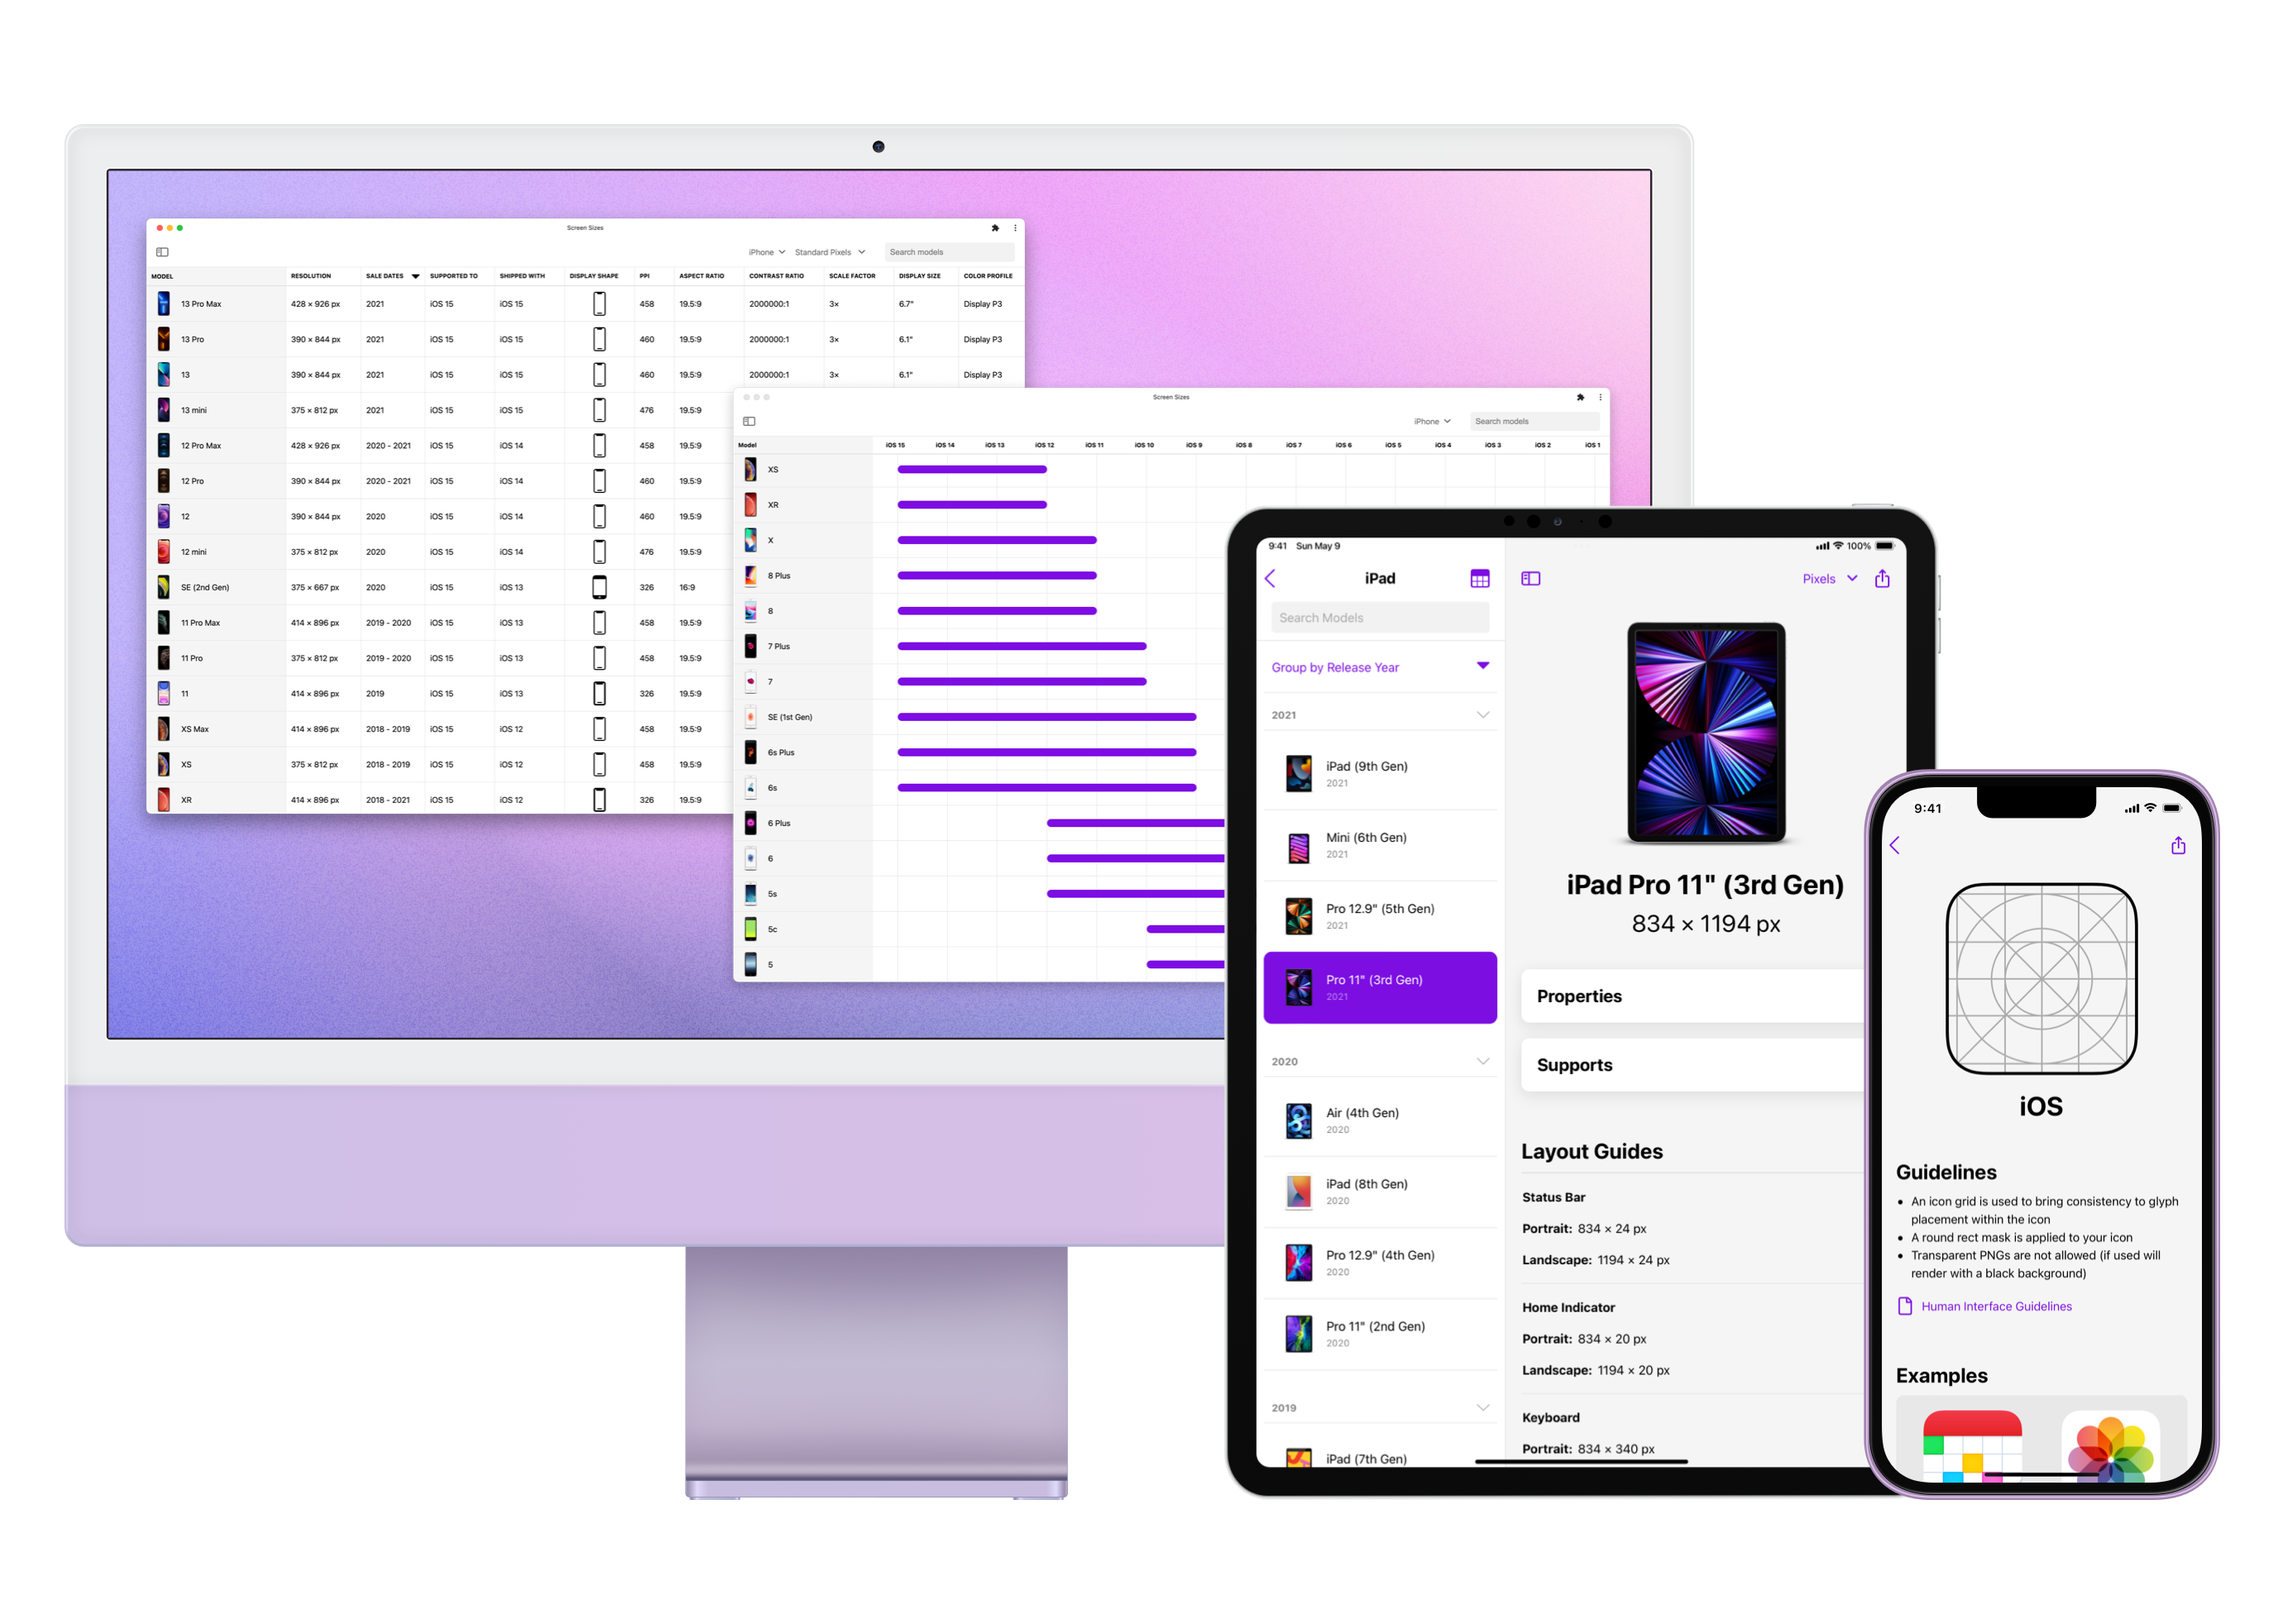
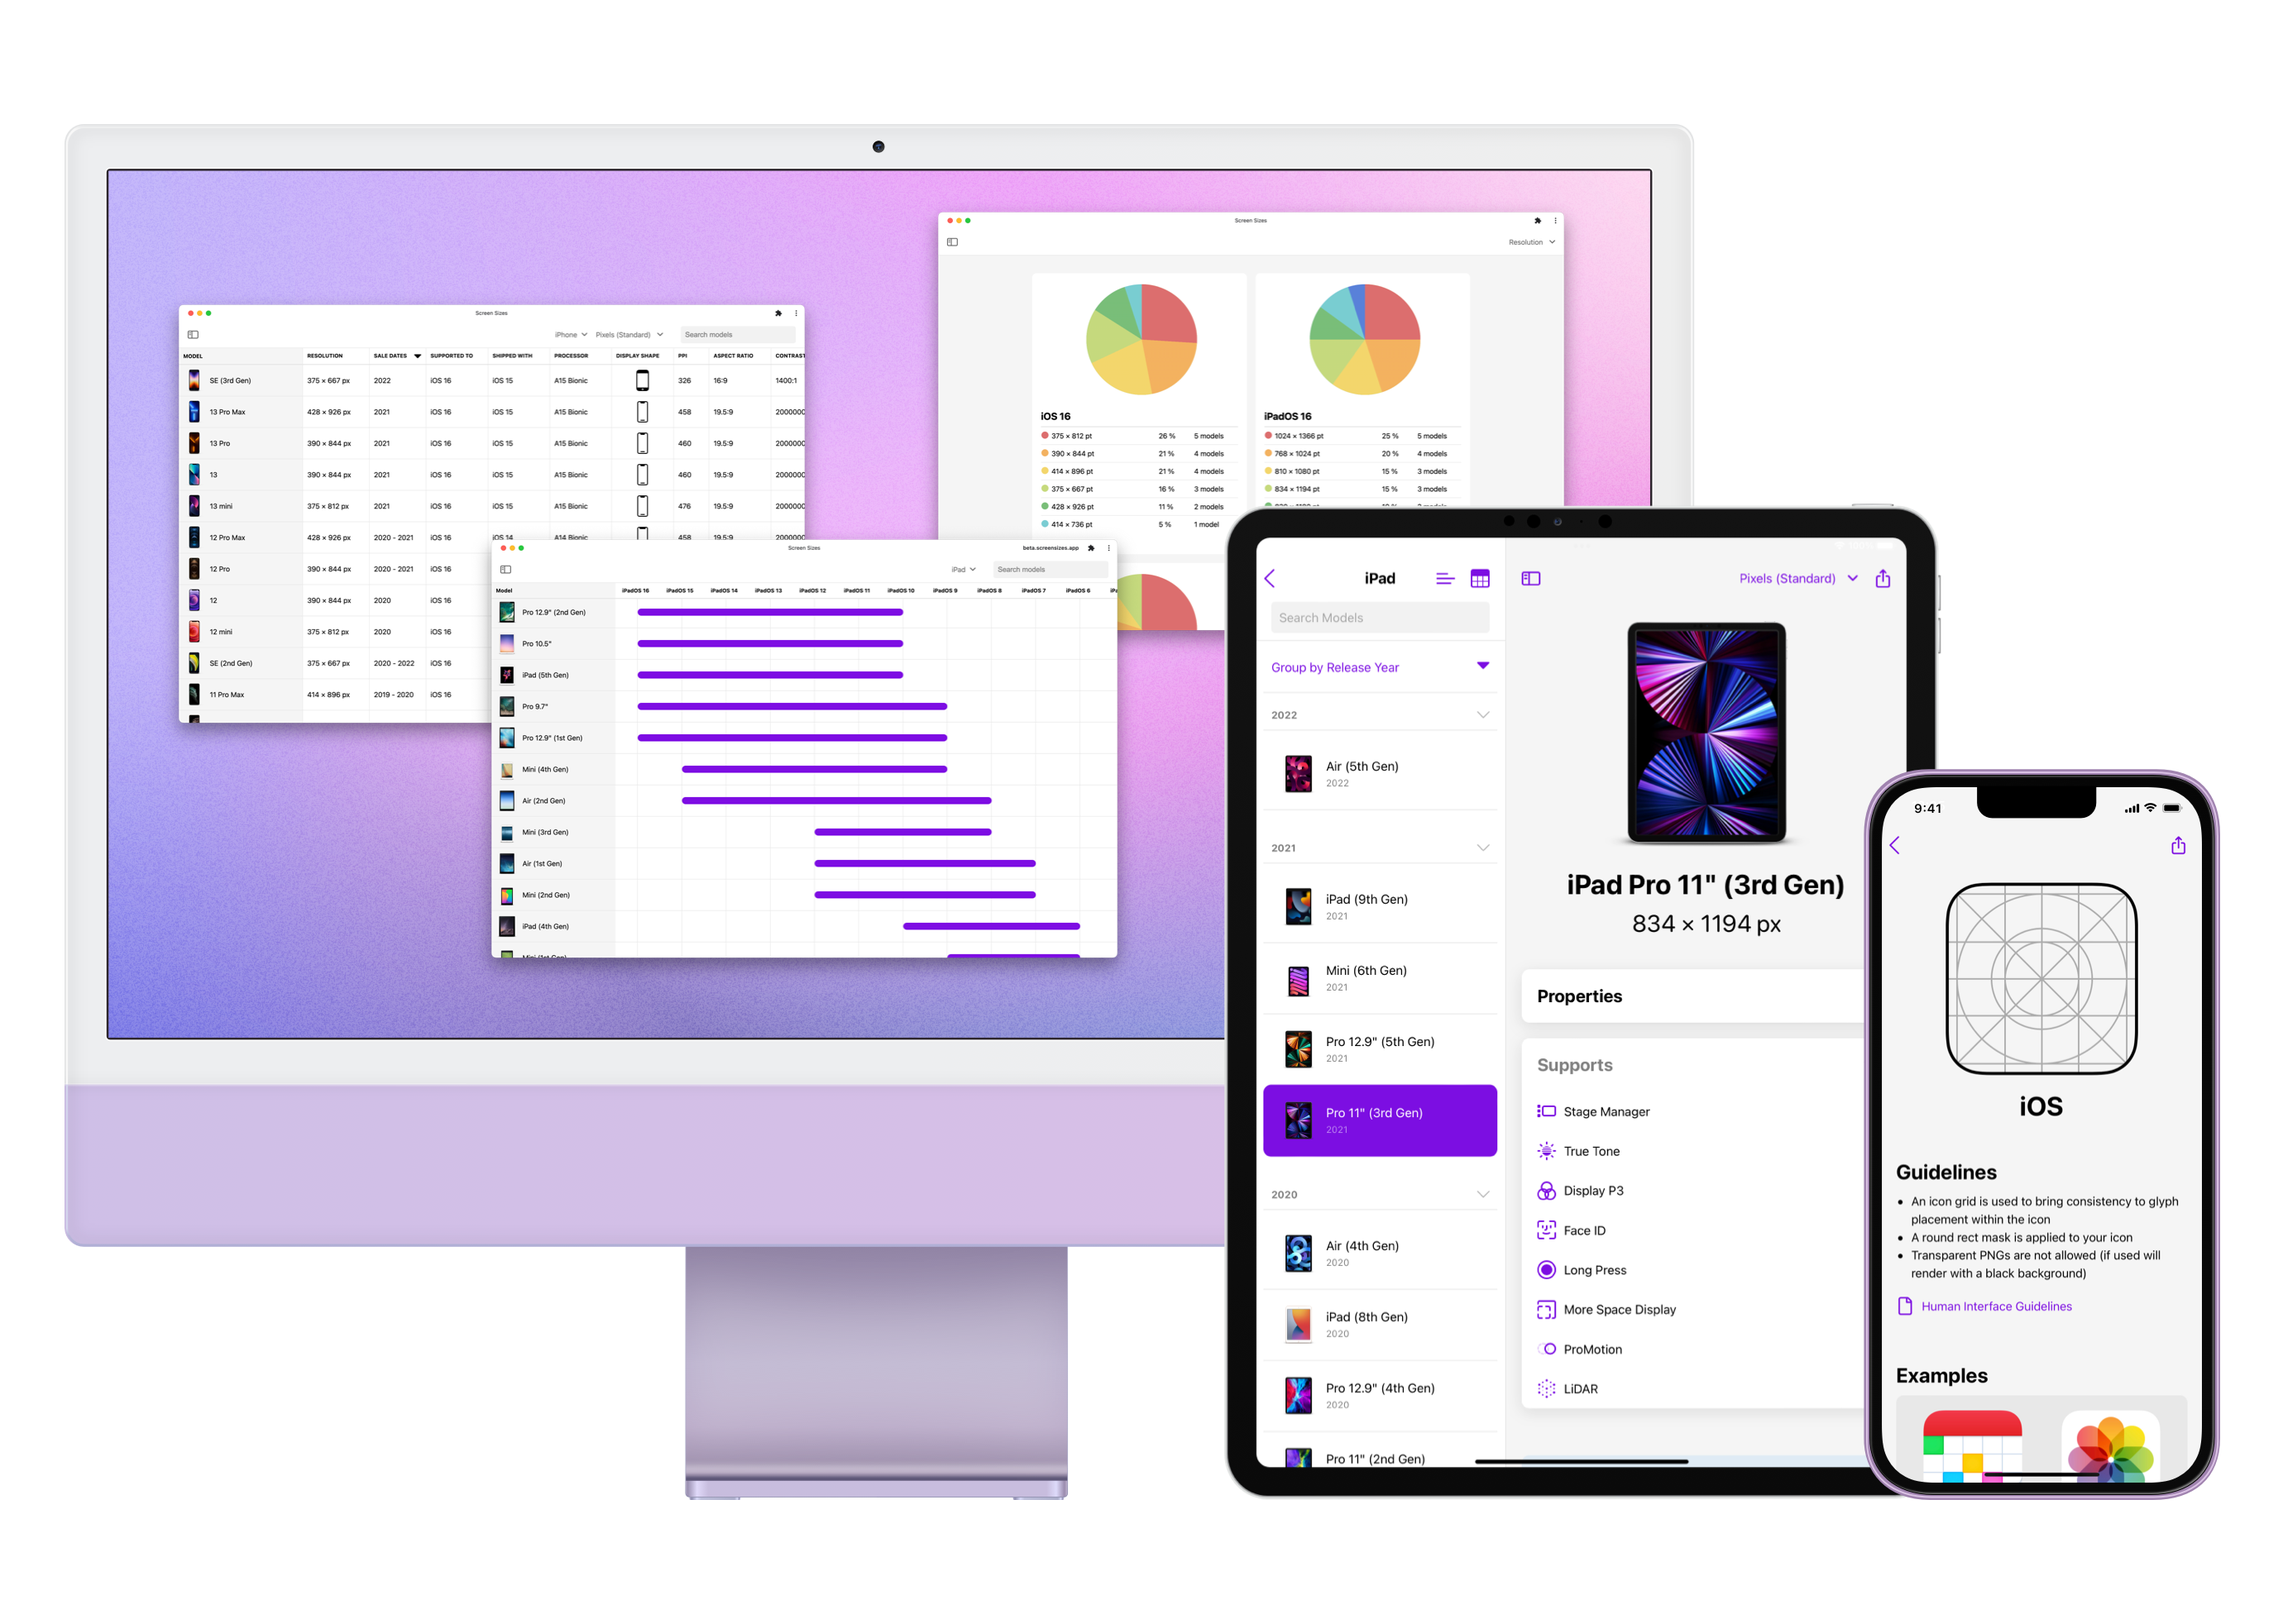
Updated Screen Sizes content

diff --git a/screen-sizes/version-history/index.html b/screen-sizes/version-history/index.html
@@ -34,6 +34,20 @@
 		<!-- End Google Tag Manager (noscript) -->
 		
 		<section>
+			<h2>2.2</h2>
+			<p>11 June 2022</p>
+			<ul>
+				<li>Added a Feature Share chart to help you get a picture of how supported each feature is</li>
+				<li>Added the 2022 data set</li>
+				<li>Added Processor, Stage Manager support, and Reference Mode support data</li>
+				<li>Added support for viewing iPads with their More Space display metrics</li>
+				<li>Updated OS Support data</li>
+				<li>Updated CarPlay and Complication guides</li>
+				<li>Renamed the Tools section to Charts</li>
+				<li>You can now click on the names of models in the Compare Models and OS Support tables to view the data sheet for that model</li>
+				<li>Tidied the look of search results</li>
+			</ul>
+			
 			<h2>2.1.1</h2>
 			<p>19 March 2022</p>
 			<ul>
@@ -142,9 +156,9 @@
 				<li>Improved the display shape images for all Apple Watches</li>
 				<li>Renamed some iPhone display names to make them a bit clearer</li>
 				<li>Press "C" to switch to the Comparison table</li>
-				<li>Press “D” to switch to Data Sets</li>
-				<li>Press “/" to focus the search field on the Comparison table</li>
-				<li>Press “Control" instead of “Shift" to view the Shortcuts panel (this will no longer interfere with taking screenshots)</li>
+				<li>Press "D" to switch to Data Sets</li>
+				<li>Press "/" to focus the search field on the Comparison table</li>
+				<li>Press "Control" instead of "Shift" to view the Shortcuts panel (this will no longer interfere with taking screenshots)</li>
 				<li>Decreased the transition time when changing screens on mobile</li>
 				<li>When you initially load Screen Sizes, your View setting is now respected</li>
 				<li>Added Acknowledgements page</li>

diff --git a/screen-sizes/index.html b/screen-sizes/index.html
@@ -84,7 +84,7 @@
 					</g>
 				</svg>
 				<span>
-					<h3>Safe Areas</h3>
+					<h3>Layout Guides</h3>
 					<p>Make sure you don't fall out of bounds with Safe Area info including Notch sizes</p>
 				</span>
 			</section>
